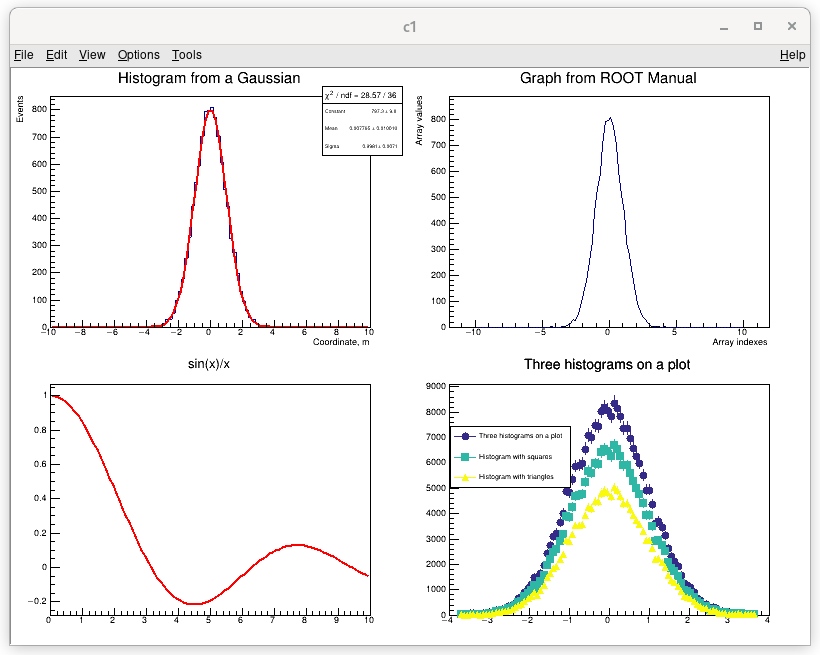
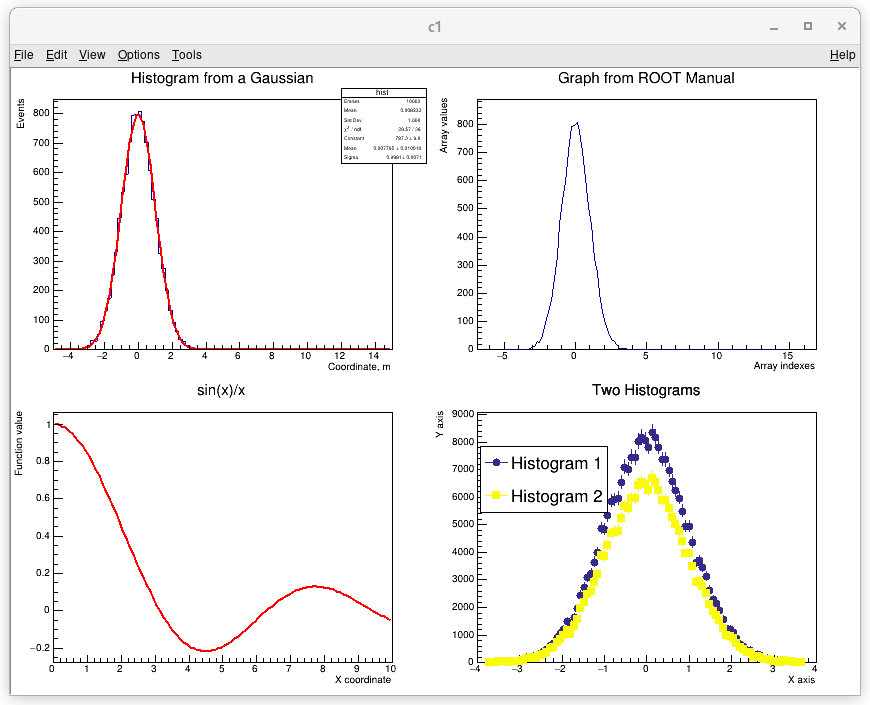
Updates for the Legend

diff --git a/src/CanvasHelper.cpp b/src/CanvasHelper.cpp
@@ -603,6 +603,17 @@ void CanvasHelper::alignAllPaves(TVirtualPad *pad) {
       TPaveText *paveText = (TPaveText*) pave;
       paveText->SetTextFont(getFont());
       paveText->SetTextSize(FONT_SIZE_NORMAL);
+    } else if (pave->InheritsFrom(TLegend::Class())) {
+      TLegend *legend = (TLegend*) pave;
+//      legend->SetTextFont(getFont());
+//      legend->SetTextSize(FONT_SIZE_NORMAL);
+      for (TObject *obj : *(legend->GetListOfPrimitives())) {
+        if (!obj->InheritsFrom(TLegendEntry::Class()))
+          continue;
+        TLegendEntry *entry = (TLegendEntry*) obj;
+        entry->SetTextFont(getFont());
+        entry->SetTextSize(FONT_SIZE_NORMAL);
+      }
     }
 
     // Round stat value/errors
@@ -995,7 +1006,7 @@ UInt_t CanvasHelper::getLegendWidthPx(TLegend *legend) {
     // maxTextLengthPx = TMath::Max(maxTextLengthPx, latexCopyWidthPx);
     latexCopy->Delete();
   }
-  return maxTextLengthPx + 50;
+  return maxTextLengthPx + 65;
 }
 
 // TODO: To be deleted! - not working well
@@ -1123,7 +1134,7 @@ void CanvasHelper::alignChildPad(TVirtualPad *canvas) {
   if (childPad == nullptr)
     return;
 
-  Double_t childPadHeightNDC = 1 - pxToNdcVertical(getFrameTopMarginPx(canvas) - 12, canvas);
+  Double_t childPadHeightNDC = 1 - pxToNdcVertical(getFrameTopMarginPx(canvas), canvas);
   childPad->SetPad(0, 0, 1, childPadHeightNDC);
   childPad->Modified();
   childPad->Update();

diff --git a/src/demo.cpp b/src/demo.cpp
@@ -32,7 +32,7 @@ void demo() {
   gStyle->SetOptFit(111);
   h->Fit("gaus");
 
-  // FEATURE 1: obtain default stat box from the canvas and align it to the left top corner
+  // FEATURE 1: obtain default statistics box from the canvas and align it
   TPave *pave = CanvasHelper::getDefaultPaveStats(pad1);
   CanvasHelper::setPaveAlignment(pave, CanvasHelper::kPaveAlignRight | CanvasHelper::kPaveAlignTop);
 
@@ -73,19 +73,23 @@ void demo() {
 
   pad4->BuildLegend();
   h1->SetTitle("Two Histograms");
-  // FEATURE 3: align a legend
+
+  // FEATURE 2: align a legend
   TLegend* legend = CanvasHelper::getDefaultLegend(pad4);
   CanvasHelper::setPaveAlignment(legend, CanvasHelper::kPaveAlignLeft | CanvasHelper::kPaveAlignTop);
 
-  // FEATURE 4: add title and/or subtitle to a multi-pad canvas
+  // FEATURE 3: add title and/or subtitle to a multi-pad canvas
   CanvasHelper::addMultiCanvasTitle(c, "Multi-Pad Canvas Title", "Canvas features a ROOT histogram and a graph.");
+
+  // FEATURE 4: add subtitle to a canvas
+  // TODO: add code
 
   // Pass canvas for processing
   CanvasHelper::getInstance()->addCanvas(c);
 
-  c->Modified();
-  c->Paint();
-  c->Update();
+//  c->Modified();
+//  c->Paint();
+//  c->Update();
 }
 
 #ifndef __CINT__

diff --git a/README.md b/README.md
@@ -1,14 +1,14 @@
 Helper Class for CERN ROOT Canvas
 =================================
 
-By default, ROOT graphics on the canvas scales according to the canvas size. The bigger the canvas size is - the larger corresponding fonts, paddings are. This approach works fine for canvases that contain one or just a few sub-pads. However, when ROOT canvas is divided into a higher number of sub-pads, say, 3x3, 5x5 or more, following issues take place:
+By default, ROOT graphics on the canvas scales according to the canvas size. The bigger the canvas size is - the larger corresponding fonts, paddings are. This approach works good for canvases that contain one or two sub-pads. However, when ROOT canvas is divided into a higher number of sub-pads, say, 3x3, 5x5 or more, following issues take place:
 
 * Absolute pixel font size on every child pad becomes too small and almost unreadable.
-* Font sizes become inconsistent across canvases with various number of sub-pads.
+* Font sizes are inconsistent across various canvas elements (no typographic scale).
 * Text in the legend and statistic boxed becomes very small.
 * By default, ROOT canvas fas a fixed left margin value. Therefore, the Y axis title sometimes gets pushed outside the canvas area.
 
-Above issues are especially notable on screens with smaller resolution. Please refer to an example below. We create a ROOT multi-canvas with 4 sub-pads. Canvas size is set to 800x600 pixels. 
+Above issues are especially notable on screens with smaller resolution. For instance, let us create a test ROOT canvas divided into 4 sub-pads. On the screenshot below, canvas size is set to 800x600 pixels. 
 
 <figure>
   <img src="https://raw.githubusercontent.com/petrstepanov/root-canvas-helper/main/resources/canvas-default.png" alt="Standard ROOT canvas with multiple sub pads" />
@@ -16,23 +16,24 @@ Above issues are especially notable on screens with smaller resolution. Please r
 
 It is quite clear that sharing the plots with such a small text is rather unacceptable. Often when sharing screen at the online conferences, participants can hardly see the results.
 
-Indeed, ROOT allows for setting a fixed pixel size font. However, this is usually not enough. A nice looking plot requires also tweaking the number of the tick marks, adjusting frame margins, tick mark length, changing title font sizes, axis title spacing and many more. Yes, technically everything can be tweaked. But at what cost? It comes down to duplicating chunks of code for every canvas.
+Indeed, ROOT allows for setting a fixed pixel size font. However, this is usually not enough. A nice looking multi-pad plot also requires tweaking of the number of the tick marks, adjusting frame margins, tick mark length, changing title font sizes, axis title spacing and many more. ROOT is a very flexible framework and majority of these things can be easily tweaked. But at what cost? It comes down to duplicating chunks of code for every particular canvas. Moreover, 
 
-This library is aimed on fixing issues outlined above. It is enough to pass the instance of a canvas to the library:
-```
-CanvasHelper::getInstance()->addCanvas(yourCanvas);
-```
-
-Canvas Helper transforms original canvas in a following way:
+This library is aimed on fixing issues outlined above. Canvas Helper converts ROOT plots from fractional-based geometry to fixed pixel sizes. As a result, the plot looks more alike to what Gnuplot output is.:
 
 <figure>
   <img src="https://raw.githubusercontent.com/petrstepanov/root-canvas-helper/main/resources/canvas-processed.png" alt="ROOT canvas processed with CanvasHelper" />
 </figure>
 
+A single line of code is required to make the change happen. We simply pass the canvas instance to the library:
+```
+CanvasHelper::getInstance()->addCanvas(yourCanvas);
+```
+
 Additionally, this library provides a few useful features, such as:
 * Impemented proper rounding of the parameter values and errors in the statistics box. Parameter values always round to the first significant digit of the error.
 * Alignment of the stat box or legend to the canvas frame corners top-left, bottom-right etc...
-* Adding a joint title for canvas that was divided into multiple pads.
+* Library also allows adding a subtitle to the ROOT canvas. This may be useful for plots that need some elaboration.
+* Adding a joint title for canvas that was divided into multiple pads. This was frequently asked on the ROOT forum.
 
 Another cool feature is that registered canvases and sub-pads automatically re-adjust all the dimensions and their primitives upon the resize event.
 
@@ -61,7 +62,7 @@ cp CanvasHelper*.pcm `root-config --libdir`
 cp CanvasHelper*.h `root-config --incdir`
 ```
 
-This is it. Now you can utilize the library. Feel free to inspect and run an example ROOT macro `test.c` that demonstrates the use of the library:
+This is it. Now you can utilize the library. Feel free to inspect and run an example ROOT macro `demo.cpp` that demonstrates the use of the library:
 ```
 root demo.cpp
 ```
@@ -72,3 +73,5 @@ Integrate into your ROOT script
 
 Add to a ROOT-based Project
 ---------------------------
+
+
